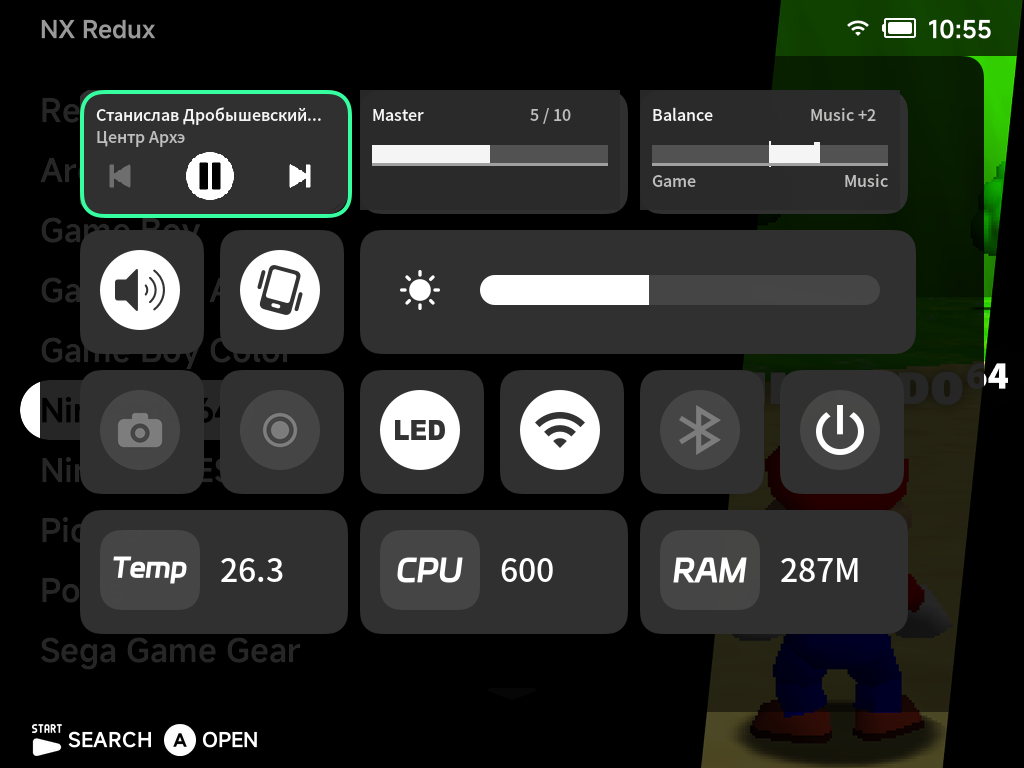
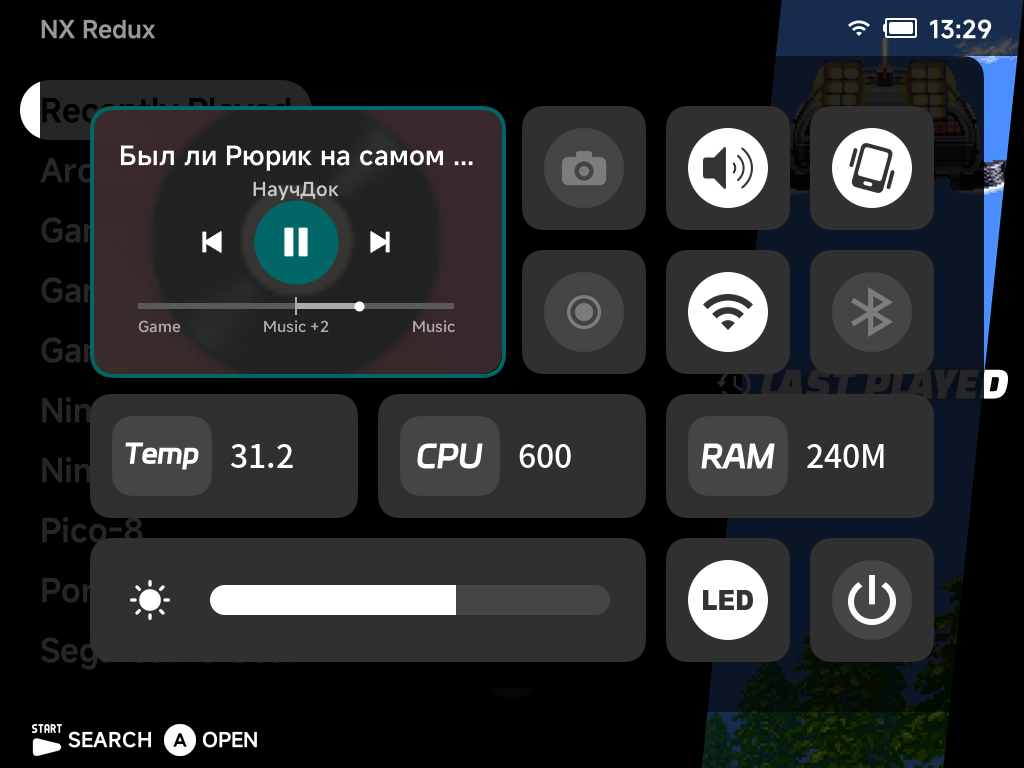
fix(music): polish OSD controls and queue navigation

diff --git a/workspace/all/musicplayer/musicplayerd.c b/workspace/all/musicplayer/musicplayerd.c
@@ -45,6 +45,9 @@ static char socket_path[sizeof(((struct sockaddr_un*)0)->sun_path)];
 static char lock_path[sizeof(socket_path) + 8];
 static bool eof_advanced;
 static bool shuffle_enabled;
+#define SHUFFLE_HISTORY_MAX 32
+static int shuffle_history[SHUFFLE_HISTORY_MAX];
+static int shuffle_history_count;
 static MusicSource active_source;
 static bool has_active_source(void);
 static int queue_kind;
@@ -334,9 +337,10 @@ static void fill_snapshot(MusicResponseWire* response) {
 		if (Radio_getStations(&stations) > 1)
 			response->snapshot.capabilities |= MUSIC_CAP_NEXT | MUSIC_CAP_PREVIOUS;
 	} else if (active_source == MUSIC_SOURCE_LOCAL) {
-		if (response->snapshot.queue_index + 1 < response->snapshot.queue_count)
+		if ((shuffle_enabled && response->snapshot.queue_count > 1) ||
+			response->snapshot.queue_index + 1 < response->snapshot.queue_count)
 			response->snapshot.capabilities |= MUSIC_CAP_NEXT;
-		if (response->snapshot.queue_index > 0)
+		if ((shuffle_enabled && shuffle_history_count > 0) || response->snapshot.queue_index > 0)
 			response->snapshot.capabilities |= MUSIC_CAP_PREVIOUS;
 	}
 	strncpy(response->snapshot.artwork_path, artwork_path, sizeof(response->snapshot.artwork_path) - 1);
@@ -684,6 +688,7 @@ static void restore_failed(const char* message) {
 }
 
 static int restore_local(const ResumeState* saved) {
+	shuffle_history_count = 0;
 	if (saved->type == RESUME_TYPE_FILES) {
 		if (!saved->folder_path[0] || access(saved->folder_path, R_OK) != 0)
 			return MUSIC_STATUS_NOT_FOUND;
@@ -800,6 +805,7 @@ static int load_path(const MusicLoadRequest* request) {
 	struct stat st;
 	if (stat(path, &st) != 0)
 		return MUSIC_STATUS_NOT_FOUND;
+	shuffle_history_count = 0;
 	char file_path[MUSIC_SERVICE_MAX_PATH];
 	if (S_ISDIR(st.st_mode)) {
 		if (Playlist_buildFromDirectory(&queue, path, request->selected_path[0] ? request->selected_path : NULL) <= 0)
@@ -841,6 +847,7 @@ static int load_playlist(const MusicPlaylistLoadRequest* request) {
 	if (!request || !request->path[0] || request->index < 0 ||
 		strlen(request->path) >= MUSIC_SERVICE_MAX_PATH)
 		return MUSIC_STATUS_BAD_REQUEST;
+	shuffle_history_count = 0;
 	PlaylistContext loaded = {0};
 	Playlist_init(&loaded);
 	int count = 0;
@@ -883,9 +890,24 @@ static bool has_active_source(void) {
 static int advance(int direction) {
 	PlayerSnapshot snapshot;
 	Player_getSnapshot(&snapshot);
-	int index = direction > 0 && shuffle_enabled
-					? Playlist_shuffle(&queue)
-					: (direction > 0 ? Playlist_next(&queue) : Playlist_prev(&queue));
+	int index;
+	if (shuffle_enabled && direction > 0) {
+		int previous = queue.current_index;
+		index = Playlist_shuffle(&queue);
+		if (index >= 0 && index != previous) {
+			if (shuffle_history_count == SHUFFLE_HISTORY_MAX) {
+				memmove(shuffle_history, shuffle_history + 1,
+						sizeof(shuffle_history[0]) * (SHUFFLE_HISTORY_MAX - 1));
+				shuffle_history_count--;
+			}
+			shuffle_history[shuffle_history_count++] = previous;
+		}
+	} else if (shuffle_enabled && direction < 0 && shuffle_history_count) {
+		index = shuffle_history[--shuffle_history_count];
+		queue.current_index = index;
+	} else {
+		index = direction > 0 ? Playlist_next(&queue) : Playlist_prev(&queue);
+	}
 	if (index < 0)
 		return MUSIC_STATUS_NOT_FOUND;
 	int status = select_index(index);
@@ -977,8 +999,11 @@ static int handle_command(uint16_t command, const unsigned char* payload, size_t
 	case MUSIC_CMD_SET_SHUFFLE:
 		if (length != sizeof(MusicIntRequest))
 			status = MUSIC_STATUS_BAD_REQUEST;
-		else
+		else {
 			shuffle_enabled = ((const MusicIntRequest*)payload)->value != 0;
+			if (!shuffle_enabled)
+				shuffle_history_count = 0;
+		}
 		break;
 	case MUSIC_CMD_PODCAST_PROGRESS:
 	case MUSIC_CMD_PODCAST_MARK_PLAYED:

diff --git a/workspace/all/musicplayer/tests/test_music_service.c b/workspace/all/musicplayer/tests/test_music_service.c
@@ -303,17 +303,27 @@ int main(int argc, char** argv) {
 				  strcmp(response.snapshot.queue_path, recursive_root) == 0 &&
 				  strcmp(response.snapshot.current_file, recursive_selected) == 0 &&
 				  response.snapshot.queue_count == 2,
-			  "recursive folder request preserves selected root and track");
-		check(raw_request(fd, MUSIC_CMD_NEXT, NULL, 0, &response) == 0 &&
-			  strcmp(response.snapshot.queue_path, recursive_root) == 0 &&
-			  response.snapshot.queue_kind == MUSIC_QUEUE_FOLDER &&
-			  strstr(response.snapshot.current_file, "01.wav"),
-		  "next retains recursive queue root");
+			  "recursive folder preserves its nested selected track");
 		check(raw_request(fd, MUSIC_CMD_PREVIOUS, NULL, 0, &response) == 0 &&
-			  strcmp(response.snapshot.queue_path, recursive_root) == 0 &&
-			  response.snapshot.queue_kind == MUSIC_QUEUE_FOLDER &&
-			  strcmp(response.snapshot.current_file, recursive_selected) == 0,
-		  "previous retains recursive queue root");
+				  strcmp(response.snapshot.queue_path, recursive_root) == 0 &&
+				  response.snapshot.queue_kind == MUSIC_QUEUE_FOLDER &&
+				  strcmp(response.snapshot.current_file, recursive_first) == 0,
+			  "Previous retains recursive queue root");
+		check(raw_request(fd, MUSIC_CMD_NEXT, NULL, 0, &response) == 0 &&
+				  strcmp(response.snapshot.queue_path, recursive_root) == 0 &&
+				  response.snapshot.queue_kind == MUSIC_QUEUE_FOLDER &&
+				  strcmp(response.snapshot.current_file, recursive_selected) == 0,
+			  "Next retains recursive queue root");
+		check(raw_request(fd, MUSIC_CMD_SET_SHUFFLE, &(MusicIntRequest){.value = 1}, sizeof(MusicIntRequest), &response) == 0 &&
+				  (response.snapshot.capabilities & MUSIC_CAP_NEXT),
+			  "shuffle exposes Next at the end of a queue");
+		check(raw_request(fd, MUSIC_CMD_NEXT, NULL, 0, &response) == 0 &&
+				  strcmp(response.snapshot.current_file, recursive_first) == 0,
+			  "shuffle Next chooses the other queue track");
+		check(raw_request(fd, MUSIC_CMD_PREVIOUS, NULL, 0, &response) == 0 &&
+				  strcmp(response.snapshot.current_file, recursive_selected) == 0,
+			  "shuffle Previous retraces the selected track");
+		(void)raw_request(fd, MUSIC_CMD_SET_SHUFFLE, &(MusicIntRequest){.value = 0}, sizeof(MusicIntRequest), &response);
 		close(fd);
 	}
 
@@ -713,6 +723,7 @@ int main(int argc, char** argv) {
 		close(fd);
 	}
 	waitpid(daemon, NULL, 0);
+
 	check(run_cli(argv[2], "snapshot", NULL) != 0, "disconnected CLI returns safe error");
 	/* Dead owner metadata and a stale socket inode are cleaned before rebinding. */
 	char stale_lock_path[180];

diff --git a/workspace/all/musicplayer/module_player.c b/workspace/all/musicplayer/module_player.c
@@ -117,7 +117,8 @@ static bool sync_owner_presentation(const MusicSnapshotWire* snapshot) {
 	if (snapshot->artwork_path[0] && strcmp(loaded_artwork_path, snapshot->artwork_path) != 0) {
 		album_art_load_path(snapshot->artwork_path);
 		snprintf(loaded_artwork_path, sizeof(loaded_artwork_path), "%s", snapshot->artwork_path);
-	}
+	} else if (!album_art_get() && (snapshot->artist[0] || snapshot->title[0]))
+		album_art_fetch(snapshot->artist, snapshot->title);
 	SDL_Surface* artwork = album_art_get();
 	if (artwork != presentation_artwork) {
 		cleanup_album_art_background();
@@ -308,10 +309,9 @@ static bool start_playback(const char* path) {
 
 // Clean up playback state
 static void cleanup_playback(bool quit_spectrum) {
+	clear_owner_presentation();
 	clear_gpu_layers();
 	PlayTime_clear();
-	Lyrics_clearGPU();
-	Lyrics_clear();
 	if (quit_spectrum) {
 		Spectrum_quit();
 	}
@@ -599,8 +599,7 @@ static bool handle_playing_input(SDL_Surface* screen, PlayerInternalState* state
 	if (sync_ui_to_owner())
 		*dirty = 1;
 	if (!PlayerModule_isActive()) {
-		cleanup_playback_ui();
-		ModuleCommon_setAutosleepDisabled(false);
+		cleanup_playback(true);
 		*state = PLAYER_INTERNAL_BROWSER;
 		return true;
 	}
@@ -1028,6 +1027,10 @@ ModuleExitReason PlayerModule_runWithPlaylist(SDL_Surface* screen,
 		MusicClient_update();
 		if (sync_ui_to_owner())
 			dirty = 1;
+		if (!PlayerModule_isActive()) {
+			cleanup_playback(true);
+			return MODULE_EXIT_TO_MENU;
+		}
 
 		// Auto screen-off after inactivity
 		if (MusicClient_snapshot()->state == MUSIC_STATE_PLAYING && ModuleCommon_checkAutoScreenOffTimeout()) {

diff --git a/workspace/all/osdmusic/osdmusic.c b/workspace/all/osdmusic/osdmusic.c
@@ -99,6 +99,8 @@ static void load_accent(void) {
 		while (fgets(line, sizeof(line), f)) {
 			unsigned value;
 			if (sscanf(line, "color2=0x%x", &value) == 1 || sscanf(line, "color2=0X%x", &value) == 1) {
+				if (value == 0x002222ffU)
+					value = 0x006666ffU;
 				Uint8 r = (value >> 24) & 0xff, g = (value >> 16) & 0xff, b = (value >> 8) & 0xff;
 				next = (SDL_Color){r, g, b, 255};
 				break;
@@ -345,7 +347,10 @@ static void draw_button(Widget* w, SDL_Surface* icon, int cx, int cy, int disc, 
 		return;
 	if (focused) {
 		fill_circle(w->frame, cx, cy, disc, accent.r, accent.g, accent.b);
-		blit_tinted(w->frame, icon, cx - icon->w / 2, cy - icon->h / 2, 32, 32, 32);
+		const int luminance = 299 * accent.r + 587 * accent.g + 114 * accent.b;
+		const Uint8 icon_color = luminance < 128000 ? 255 : 32;
+		blit_tinted(w->frame, icon, cx - icon->w / 2, cy - icon->h / 2,
+				icon_color, icon_color, icon_color);
 	} else {
 		blit_tinted(w->frame, icon, cx - icon->w / 2, cy - icon->h / 2, 255, 255, 255);
 	}
@@ -501,7 +506,7 @@ static void render(Widget* w) {
 		draw_text_centered(f, w->title_font, snapshot_title(), cx, y, white, CANVAS_W - 48);
 		y += title_h + 4;
 		draw_text_centered(f, w->artist_font, snapshot_artist(), cx, y, grey, CANVAS_W - 48);
-		y += artist_h + 8 + disc;
+		y += artist_h + 8 + disc - 10;
 		bool focus_visible = state.enabled && state.row == ROW_TRANSPORT;
 		draw_button(w, w->prev_icon, cx - 84, y, 36, focus_visible && state.focus == FOCUS_PREV);
 		draw_button(w, state.snapshot.state == MUSIC_STATE_PLAYING ? w->pause_icon : w->play_icon, cx, y, disc,

diff --git a/workspace/all/musicplayer/tests/test_player_snapshot.c b/workspace/all/musicplayer/tests/test_player_snapshot.c
@@ -8,8 +8,6 @@
 #include <pthread.h>
 #include <unistd.h>
 
-#define SDL_INIT_AUDIO 0x00000010u
-extern void SDL_QuitSubSystem(uint32_t flags);
 
 #include "../player.h"
 #include "../settings.h"
@@ -123,8 +121,7 @@ int main(void) {
 
 	Player_setSampleRate(44100);
 	Player_closeAudioDevice();
-	SDL_QuitSubSystem(SDL_INIT_AUDIO);
-	CHECK(Player_load(fixture) == 0, "lazy load failed after audio shutdown");
+	CHECK(Player_load(fixture) == 0, "lazy load failed after audio device close");
 	PlayerSnapshot lazy_load;
 	CHECK(Player_getSnapshot(&lazy_load) == 0 && !lazy_load.audio_open &&
 		  lazy_load.state == PLAYER_STATE_STOPPED && lazy_load.current_file[0] != '\0',

diff --git a/workspace/all/musicplayer/playlist.c b/workspace/all/musicplayer/playlist.c
@@ -291,8 +291,13 @@ int Playlist_buildFromDirectory(PlaylistContext* ctx, const char* path, const ch
 	free(files);
 	free(dirs);
 
-	// Current index is always 0 (the selected track)
 	ctx->current_index = 0;
+	if (start_track_path && start_track_path[0])
+		for (int i = 0; i < ctx->track_count; i++)
+			if (strcmp(ctx->tracks[i].path, start_track_path) == 0) {
+				ctx->current_index = i;
+				break;
+			}
 
 	return ctx->track_count;
 }
